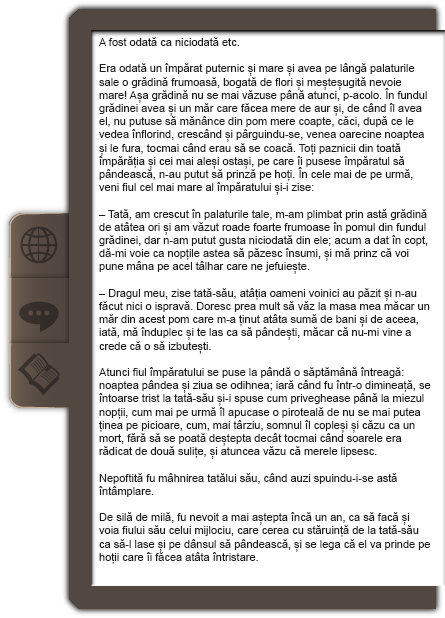
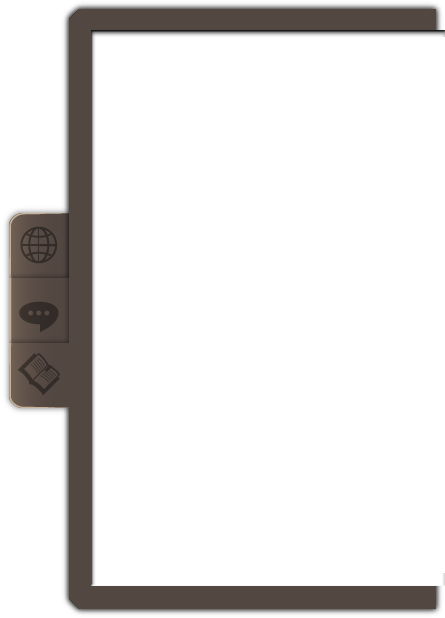
Added iFrame

diff --git a/page1.html b/page1.html
@@ -1,0 +1,110 @@
+<!DOCTYPE html>
+<html lang="en">
+  <head>
+    <meta charset="utf-8">
+    <title>title</title>
+    <link rel="stylesheet" href="style.css">
+    <script src="script.js"></script>
+  </head>
+  <body>
+ <b> Praslea cel voinic si merele de aur</b> 
+   </br></br>
+A fost odată ca niciodată etc. </br></br>
+
+Era odată un împărat puternic şi mare şi avea pe lângă palaturile sale o grădină frumoasă, bogată de flori şi meşteşugită nevoie mare! Aşa grădină nu se mai văzuse până atunci, p-acolo. În fundul grădinei avea şi un măr care făcea mere de aur şi, de când îl avea el, nu putuse să mănânce din pom mere coapte, căci, după ce le vedea înflorind, crescând şi pârguindu-se, venea oarecine noaptea şi le fura, tocmai când erau să se coacă. Toţi paznicii din toată împărăţia şi cei mai aleşi ostaşi, pe care îi pusese împăratul să pândească, n-au putut să prinză pe hoţi. În cele mai de pe urmă, veni fiul cel mai mare al împăratului şi-i zise:</br></br>
+
+- Tată, am crescut în palaturile tale, m-am plimbat prin astă grădină de atâtea ori şi am văzut roade foarte frumoase în pomul din fundul grădinei, dar n-am putut gusta niciodată din ele; acum a dat în copt, dă-mi voie ca nopţile astea să păzesc însumi, şi mă prinz că voi pune mâna pe acel tâlhar care ne jefuieşte.
+</br></br>
+- Dragul meu, zise tată-său, atâţia oameni voinici au păzit şi n-au făcut nici o ispravă. Doresc prea mult să văz la masa mea măcar un măr din acest pom care m-a ţinut atâta sumă de bani şi de aceea, iată, mă înduplec şi te las ca să pândeşti, măcar că nu-mi vine a crede că o să izbuteşti.
+</br></br>
+Atunci fiul împăratului se puse la pândă o săptămână întreagă: noaptea pândea şi ziua se odihnea; iară când fu într-o dimineaţă, se întoarse trist la tată-său şi-i spuse cum priveghease până la miezul nopţii, cum mai pe urmă îl apucase o piroteală de nu se mai putea ţinea pe picioare, cum, mai târziu, somnul îl copleşi şi căzu ca un mort, fără să se poată deştepta decât tocmai când soarele era rădicat de două suliţe, şi atuncea văzu că merele lipsesc.
+</br></br>
+Nepoftită fu mâhnirea tatălui său, când auzi spuindu-i-se astă întâmplare.
+</br></br>
+De silă de milă, fu nevoit a mai aştepta încă un an, ca să facă şi voia fiului său celui mijlociu, care cerea cu stăruinţă de la tată-său ca să-l lase şi pe dânsul să pândească, şi se lega că el va prinde pe hoţii care îi făcea atâta întristare.
+</br></br>
+Timpul veni, merele începură a se pârgui; atunci fiul său cel mijlociu păzi şi el; dară păţi ca şi frate-său cel mare.
+</br></br>
+Tată-său, deznădăjduit, pusese în gând să-l taie; dar fiul său cel mic, Prâslea, veni cu rugăciune către tată-său, şi-i zise:
+</br></br>
+- Tată, atâţia ani l-ai ţinut, ai suferit atâtea necazuri după urma acestui pom, mai lasă-l, rogu-te, şi anul acesta, să-mi încerc şi eu norocul.
+</br></br>
+- Fugi d-aci, nesocotitule, zise împăratul. Fraţii tăi cei mai mari, atâţi şi atâţi oameni voinici şi deprinşi cu nevoile n-au putut face nimic, şi tocmai tu, un mucos ca tine, o să izbutească? N-auzi tu ce prăpăstii spun fraţii tăi? Aici trebuie să fie ceva vrăji.
+</br></br>
+- Eu nu mă încumet, zise Prâslea, a prinde pe hoţi, ci zic că o încercare de voi face şi eu, nu poate să-ţi aducă nici un rău.
+</br></br>
+Împăratul se înduplecă şi mai lăsă pomul netăiat încă un an.
+</br></br>
+Sosi primăvara: pomul înflori mai frumos şi legă mai mult decât altădată. Împăratul se veseli de frumuseţea florilor şi de mulţimea roadelor sale, dară când se gândea că nici în anul acesta n-o să aibă parte de merele lui cele aurite, se căia că l-a lăsat netăiat.
+</br></br>
+Prâslea se ducea adesea prin grădină, da ocol mărului şi tot plănuia. În sfârşit, merele începură a se pârgui. Atunci fiul cel mai mic al împăratului zise:
+</br></br>
+- Tată, iată a sosit timpul; mă duc să pândesc şi eu.
+</br></br>
+- Du-te, zise împăratul; dară negreşit că şi tu ai să te întorci ruşinat ca şi fraţii tăi cei mai mari.
+</br></br>
+- Pentru mine n-are să fie aşa mare ruşine, zise el; fiindcă nu numai că sunt mai mic, dară nici nu mă leg ca să prinz pe tâlhari, ci numai o cercare să fac.
+</br></br>
+Cum veni seara, se duse, îşi luă cărţi de cetit, două ţepuşe, arcul şi tolba cu săgeţile. Îşi alese un loc de pândă într-un colţ pe lângă pom, bătu ţepuşele în pământ şi se puse între ele, aşa cum să-i vină unul dinainte şi altul la spate ca, daca îi va veni somn şi ar moţăi, să se lovească cu barba în cel de dinaintea lui şi daca ar da capul pe spate, să se lovească cu ceafa în cel de dinapoi.
+</br></br>
+Astfel pândi până când, într-una din nopţi, cam după miezul nopţii, simţi că-l atinge încetişor boarea ziorilor care îl îmbăta cu mirosul său cel plăcut, o piroteală moleşitoare se alegă de ochii lui; dară loviturile ce suferi vrând să moţăiască îl deşteptară, şi rămase priveghind până când, pe la revărsat de ziori, un uşor fâşâit se auzi prin grădină. Atunci, cu ochii ţintă la pom, luă arcul şi sta gata; fâşâitul se auzi mai tare şi un oarecine se apropie de pom şi se apucă de ramurile lui; atunci el dete o săgeată, dete două şi, când dete cu a treia, un geamăt ieşi de lângă pom şi apoi o tăcere de moarte se făcu; iară el, cum se lumină puţin, culese câteva mere din pom, le puse pe o tipsie de aur şi le duse la tatăl său.
+</br></br>
+Niciodată n-a simţit împăratul mai mare bucurie decât când a văzut la masa sa merele de aur din care nu gustase niciodată.
+</br></br>
+- Acum, zise Prâslea, să căutăm şi pe hoţ.
+</br></br>
+Dară împăratul, mulţumit că pipăise merele cele aurite, nu mai voia să ştie de hoţi. Fiul său însă nu se lăsa cu una cu două, ci, arătând împăratului dâra de sânge ce lăsase pe pământ rana ce făcuse hoţului, îi spuse că se duse să-l caute şi să-l aducă împăratului chiar din gaură de şarpe. Şi chiar de a doua zi vorbi cu fraţii lui ca să meargă împreună pe urma hoţului şi să-l prinză.
+</br></br>
+Fraţii săi prinseră pizmă pe el pentru că fusese mai vrednic decât dânşii şi căutau prilej ca să-l piarză; de aceea şi voiră bucuros să meargă. Ei se pregătiră şi porniră.
+</br></br>
+Se luară, deci, după dâra sângelui şi merse, merse, până ce ieşiră la pustietate, de acolo mai merse oleacă până ce dete de o prăpastie, unde se şi pierdu dâra. Ocoliră împregiurul prăpastiei şi văzură că dâra de sânge nu mai înainta. Atunci pricepură ei că în prăpastia aceea trebuie să locuiască furul merelor.
+</br></br>
+Dară cum să se lase înăuntru? Porunciră numaidecât vârteje şi funii groase, şi îndată se şi gătiră. Le aşezară, şi se lăsă fratele cel mare.
+</br></br>
+- Dară, zise el, când voi scutura frânghia, să mă scoateţi afară.
+</br></br>
+Aşa şi făcură. După fratele cel mare se coborî cel mijlociu şi făcu şi el ca cel dintâi, atâta numai că se lăsă ceva mai în jos.
+</br></br>
+- Acum e rândul meu să mă las în prăpastie, zise Prâslea, văzând că fraţii cei mari se codesc; când voi mişca frânghia, voi mai mult să mă lăsaţi în jos; şi după ce veţi vedea că frânghia nu se mai duce la vale, să puneţi paznici, să păzească şi, când va vedea că frânghia se mişcă de loveşte marginile groapei, să o trageţi afară.
+</br></br>
+Se lăsă şi cel mai mic din fraţi şi, de ce mişca frânghia d-aia îl lăsa mai jos, şi-l lăsară, şi-l lăsară, până ce văzură că frânghia nu mai sta întinsă, cum este când are ceva atârnat de capătul ei.
+</br></br>
+Atunci fraţii ţinură sfat şi ziseră:
+</br></br>
+- Să aşteptăm până ce vom vedea daca face vreo izbândă, şi atunci ori bine ori rău de va face, să-l pierdem, ca să ne curăţim de unul ca dânsul care ne face de ruşine.
+</br></br>
+Prâslea ajunse pe tărâmul cellalt, se uită cu sfială în toate părţile, şi cu mare mirare văzu toate lucrurile schimbate; pământul, florile, copacii, lighioni altfel făptuite erau p-acolo. Deocamdată îi cam fu frică, dară, îmbărbătându-se, apucă pe un drum şi merse până dete de nişte palaturi cu totul şi cu totul de aramă.
+</br></br>
+Nevăzând nici pui de om pe care să-l întrebe câte ceva, intră în palat, ca să vază cine locuia acolo. În pragul uşei îl întâmpină o fată frumuşică, care zise:
+</br></br>
+- Mulţumesc lui Dumnezeu că ajunsei să mai văz om de pe tărâmul nostru. Cum ai ajuns aice, frate, îl întrebă ea; aici este moşia a trei fraţi zmei, care ne-a răpit de la părinţii noştri, şi suntem trei surori şi fete de împărat de pe tărâmul de unde eşti tu.
+</br></br>
+Atunci el povesti în scurt toată istoria cu merele, cum a rănit pe hoţ şi cum a venit după dâra sângelui până la groapa pe unde s-a lăsat în jos la ea. şi o întrebă ce fel de oameni sunt zmeii aceia şi dacă sunt voinici.
+</br></br>
+Ea îi spuse apoi că fiecare din zmei şi-a ales câte una din ele şi le tot sileşte să-i ia de bărbaţi, iară ele se tot împotrivesc cu fel de fel de vorbe, cerându-le câte în lună şi în soare, şi ei se fac luntre şi punte de le împlinesc toate voile.
+</br></br>
+- Ei sunt în adevăr voinici, adăogă ea, însă cu vrerea lui Dumnezeu poate îi vei birui. Dară până una alta ascunde-te, vai de mine! undeva, să nu dea zmeul peste tine în casa lui, că e năbădăios şi se face leu-paraleu. Acum e timpul când are să vină la prânz, şi are obicei de aruncă buzduganul cale de un conac şi loveşte în uşă, în masă şi se pune în cui.
+</br></br>
+N-apucă să isprăvească vorba, şi se auzi ceva că şuieră, că loveşte în uşă, în masă, şi buzduganul se arătă şi se aşeză în cui. Dară Prâslea luă buzduganul, îl azvârli înapoi mai departe decât îl azvârlise zmeul; şi, când era prin dreptul lui, îl atinse pe umere.
+</br></br>
+Zmeul, speriat, stătu în loc, se uită după buzdugan, se duse de-l luă şi se întoarse acasă. Când era la poartă, începu să strige:
+</br></br>
+- Hâm! hâm! aici miroase a carne de om de pe tărâmul cellalt; şi, văzând pe fiul de împărat ce-i ieşise înainte, îi zise: Ce vânt te-a adus pe aici, omule, ca să-ţi rămâie oasele pe alt tărâm?
+</br></br>
+- Am venit ca să prinz pe furii merelor de aur ale tatălui meu.
+</br></br>
+- Noi suntem, îi zise zmeul; cum vrei să ne batem? În buzdugane să ne lovim, în săbii să ne tăiem, ori în luptă să ne luptăm?
+</br></br>
+- Ba în luptă, că e mai dreaptă, răspunse Prâslea.
+</br></br>
+Atunci se apucară la trântă, şi se luptară şi se luptară, până când zmeul băgă pe Prâslea în pământ până la glezne; iar Prâslea se opinti o dată, aduse pe zmeu şi, trântindu-l, îl băgă în pământ până în genunchi şi-i şi tăie capul.
+</br></br>
+Fata, cu ochii plini de lacrămi, îi mulţumi că a scăpat-o de zmeu, şi-l rugă să-i fie milă şi de surorile ei.
+</br></br>
+După ce se odihni vreo două zile, porni, după povaţa fetei, la soră-sa cea mijlocie care avea palaturile de argint.
+</br></br>
+Acolo, ca şi la cea mare, fu priimit cu bucurie; fata îl rugă să se ascunză; iar el nu voi; ci, când veni buzduganul să se aşeze în cui, pe care îl aruncase zmeul ei cale de două conace, el îl aruncă mult mai îndărăt, izbind şi pe zmeu în cap; iară zmeul veni turburat, se luptă cu Prâslea ca şi frate-său cel mare, şi rămase şi el mort.
+</br></br>
+</br>
+  </body>
+</html>

diff --git a/Index.html b/Index.html
@@ -10,8 +10,10 @@
 </head>
 <body>
 <div id="titleBar"> Praslea cel voinic si merele de aur. Un joc realizat de <a href="http://aeche.eu/">aeche</a> studio</div>
-<div id="rightSide">
+<div id="rightSide" >
+	<iframe src="http://www.aeche.eu/Praslea/story/page1.html"  width="342" height="552" id="poveste"></iframe>
 	<img src="img/BaraLaterala_chat.png" width="445" height="618" onclick="moveBar()">
+
 </div>
 <div id="settingsButton">
 	<img src="img/settingsbuton.png" width="57" height="59">

diff --git a/css/all.css b/css/all.css
@@ -110,7 +110,18 @@ opacity: 0.8;
 #rightSide:hover {
   opacity: 1;
   }
-
+#poveste {
+  position: fixed;
+    top: 50%;
+    right: 0%;
+    z-index: 300;
+    margin-top: -278px;
+    right: -445px;
+      -webkit-transition: right 1s ease-in-out;
+  -moz-transition: right 1s ease-in-out;
+  -o-transition: right 1s ease-in-out;
+  transition: right 1s ease-in-out;
+}
 #titleBar {
   position: fixed;
   width: 100%;

diff --git a/custom/main.js b/custom/main.js
@@ -7,11 +7,13 @@ function moveBar()
 	if(reading === true)
 	{
 		document.getElementById("rightSide").style.right= '-10px';
+		document.getElementById("poveste").style.right= '-2px';
 		reading = false;
 	}
 	else
 	{
 		document.getElementById("rightSide").style.right= '-360px'
+		document.getElementById("poveste").style.right= '-360px'
 		reading = true;
 	}
 }
